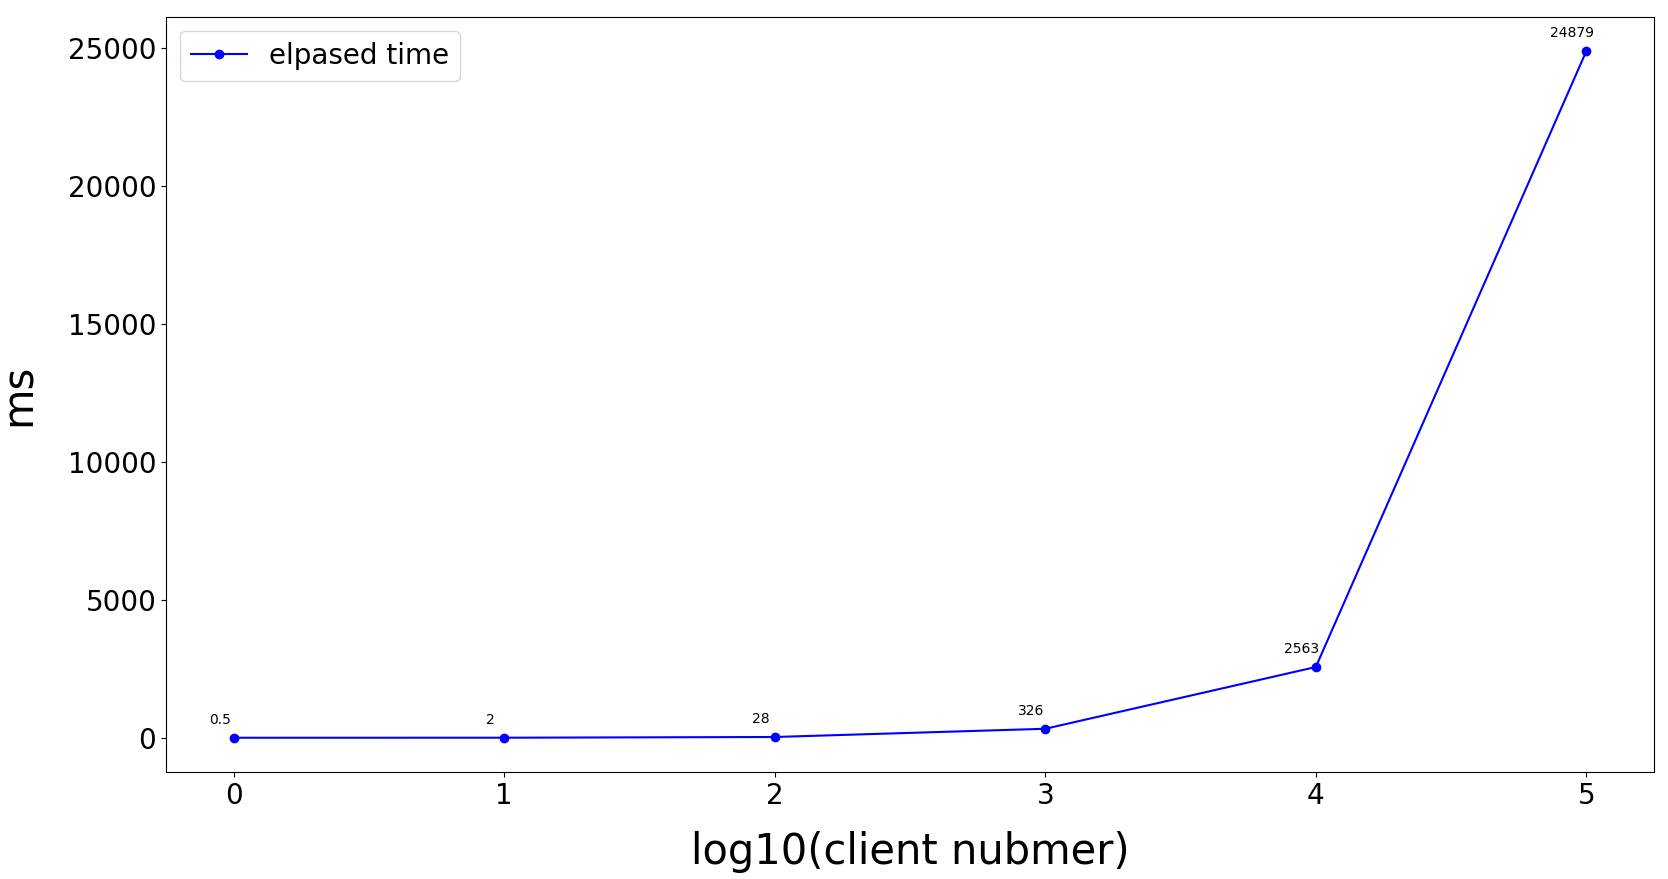
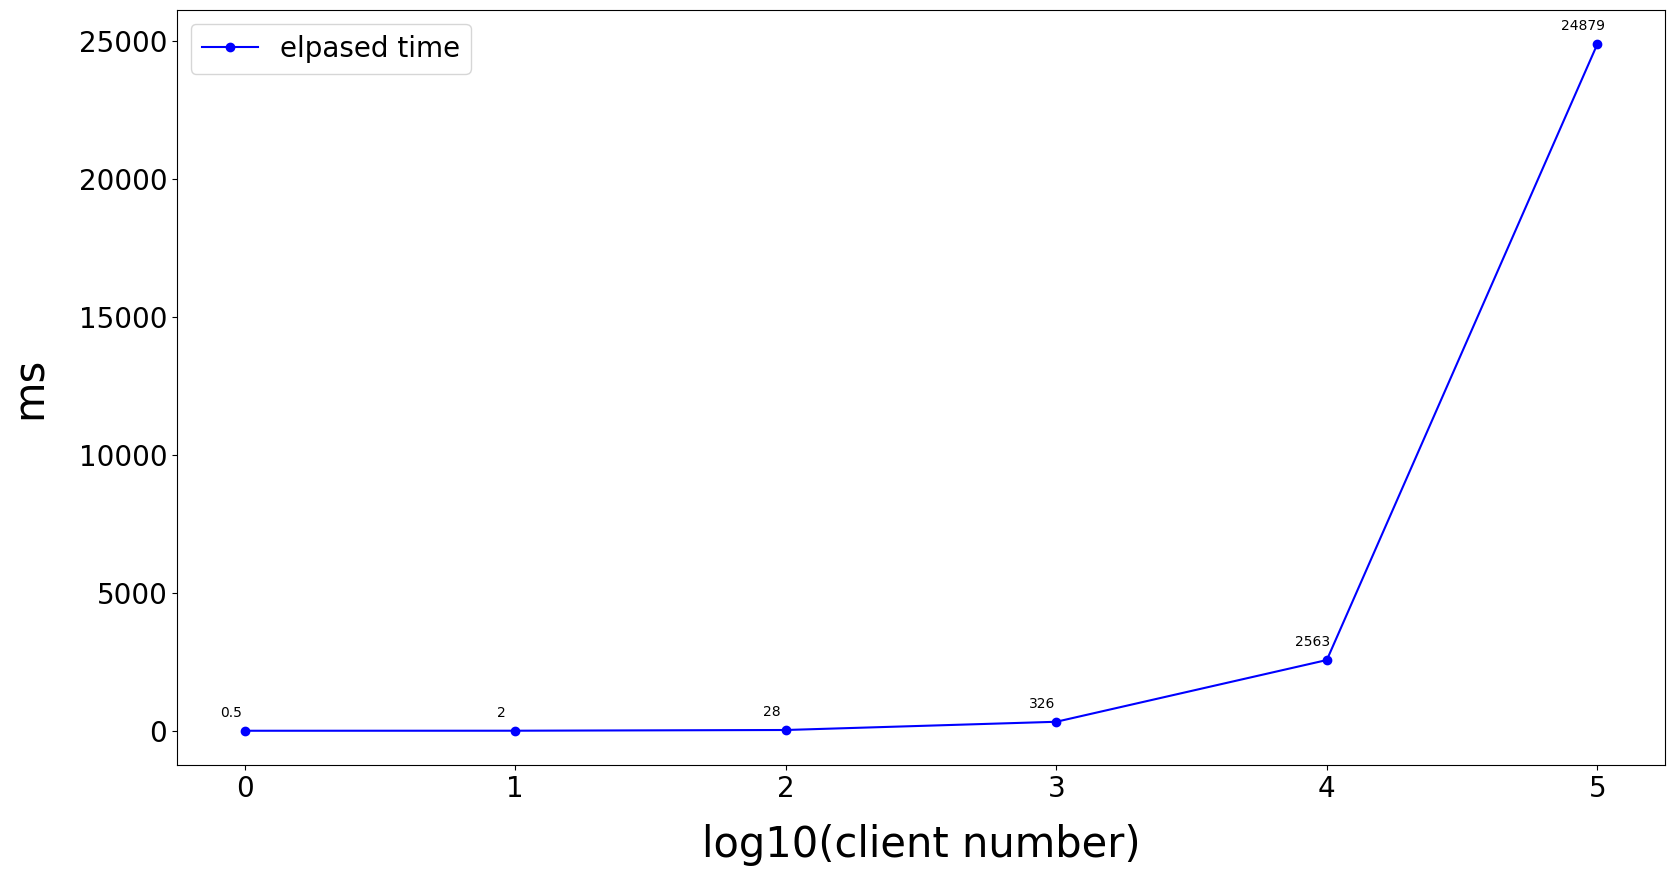
fix typo

diff --git a/draw_chart.py b/draw_chart.py
@@ -15,7 +15,7 @@ plt.plot(connections, elapsed_time,'o-',color = 'b', label="elpased time")
 plt.xticks(fontsize=20)
 plt.yticks(fontsize=20)
 
-plt.xlabel("log10(client nubmer)", fontsize=30, labelpad = 15)
+plt.xlabel("log10(client number)", fontsize=30, labelpad = 15)
 plt.ylabel("ms", fontsize=30, labelpad = 20)
 
 plt.legend(loc = "best", fontsize=20)
